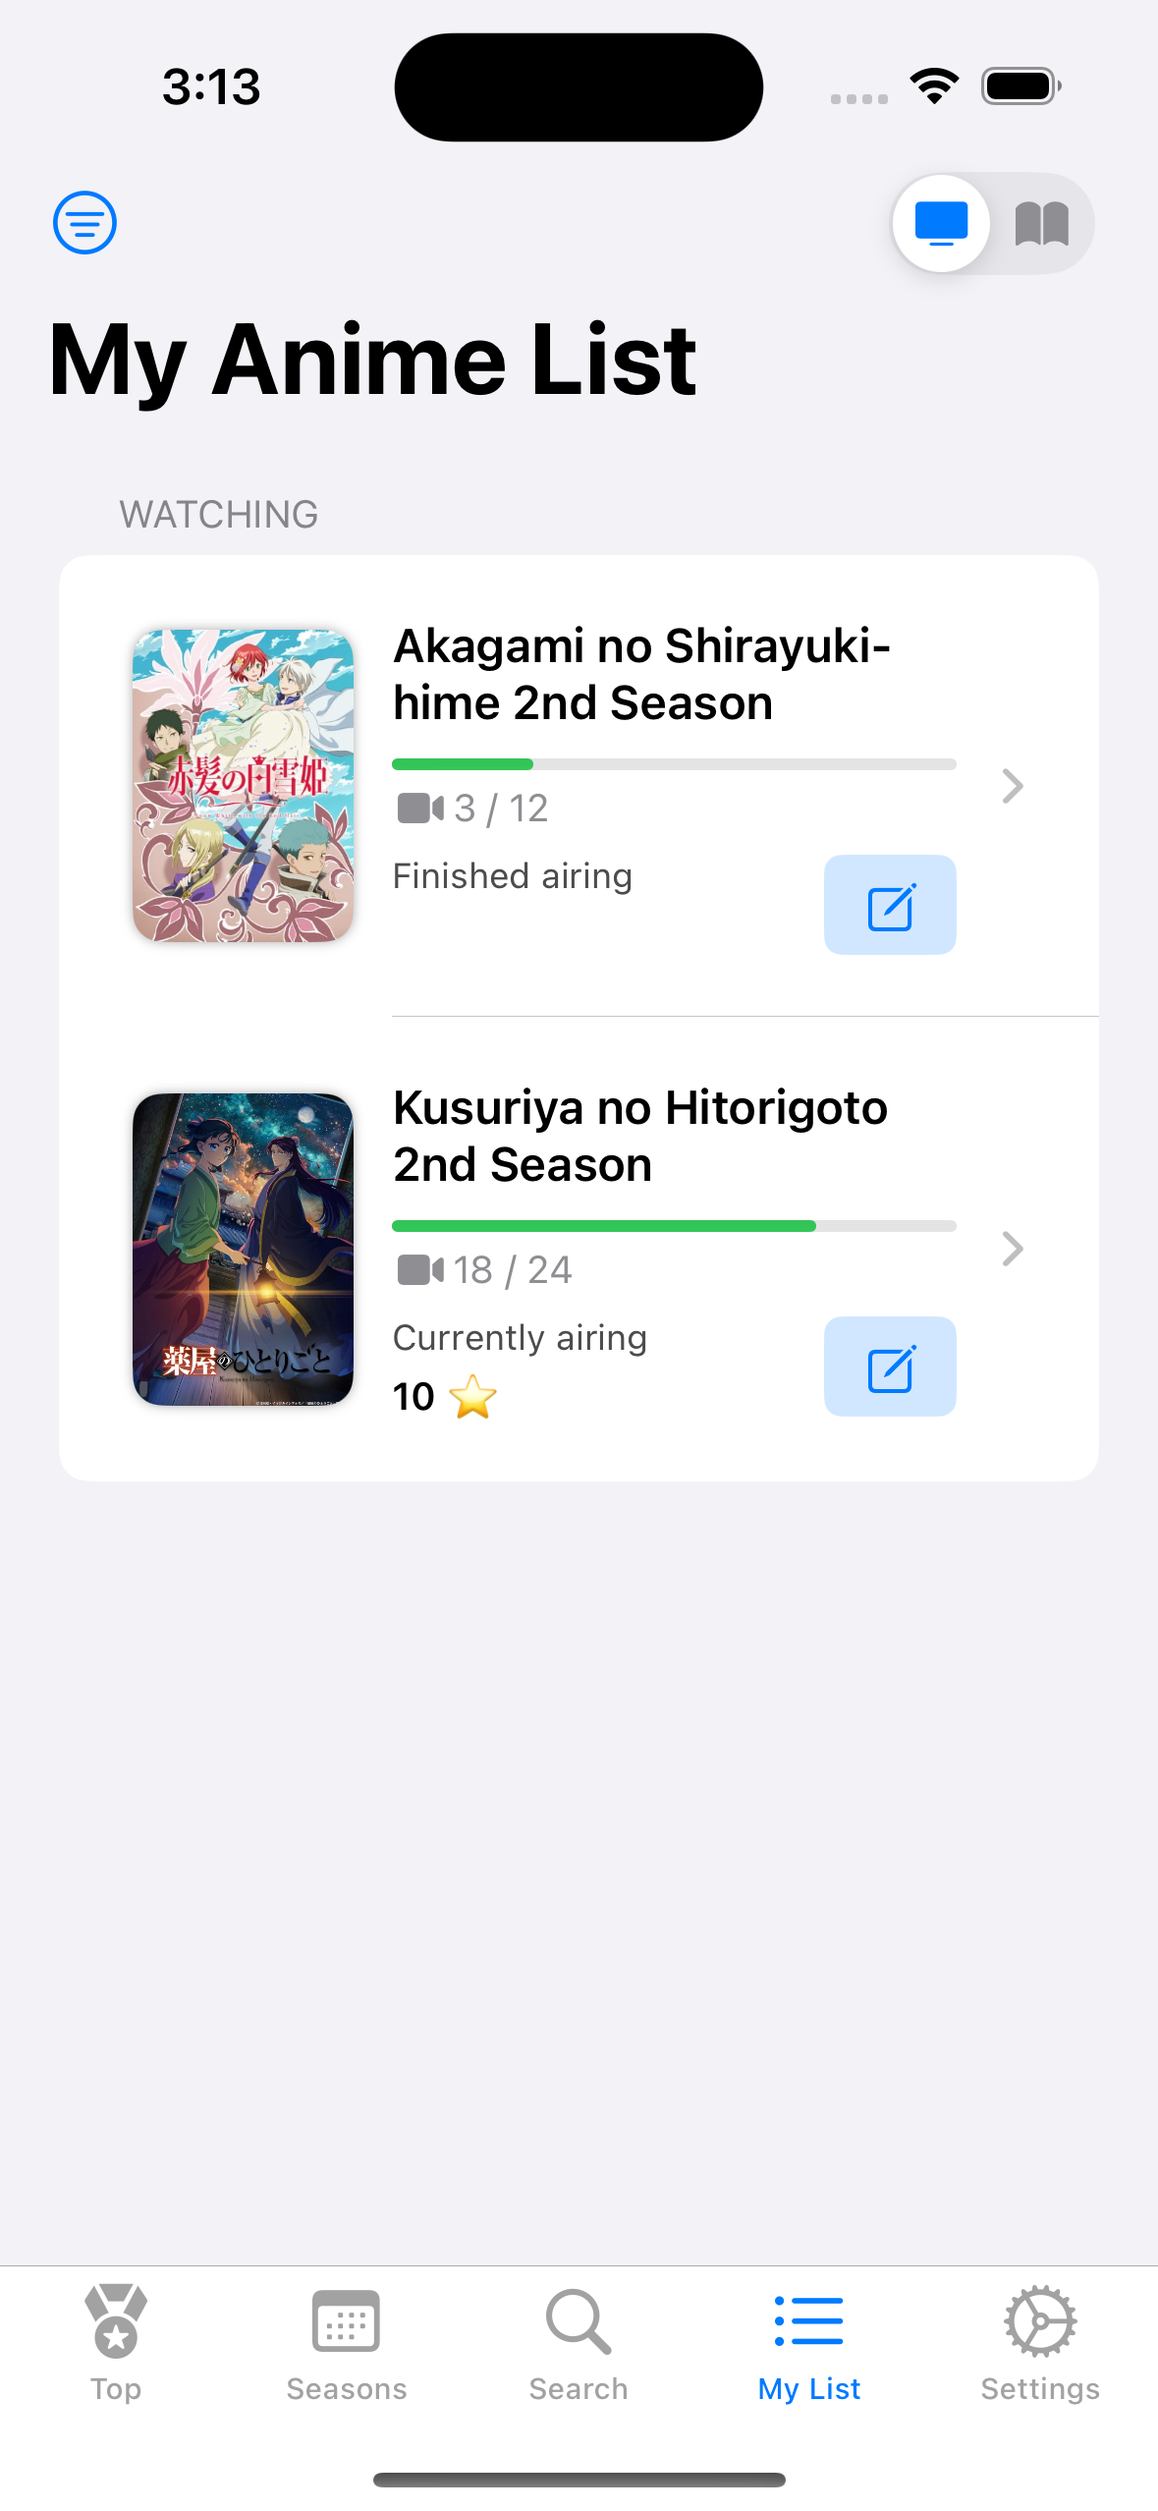
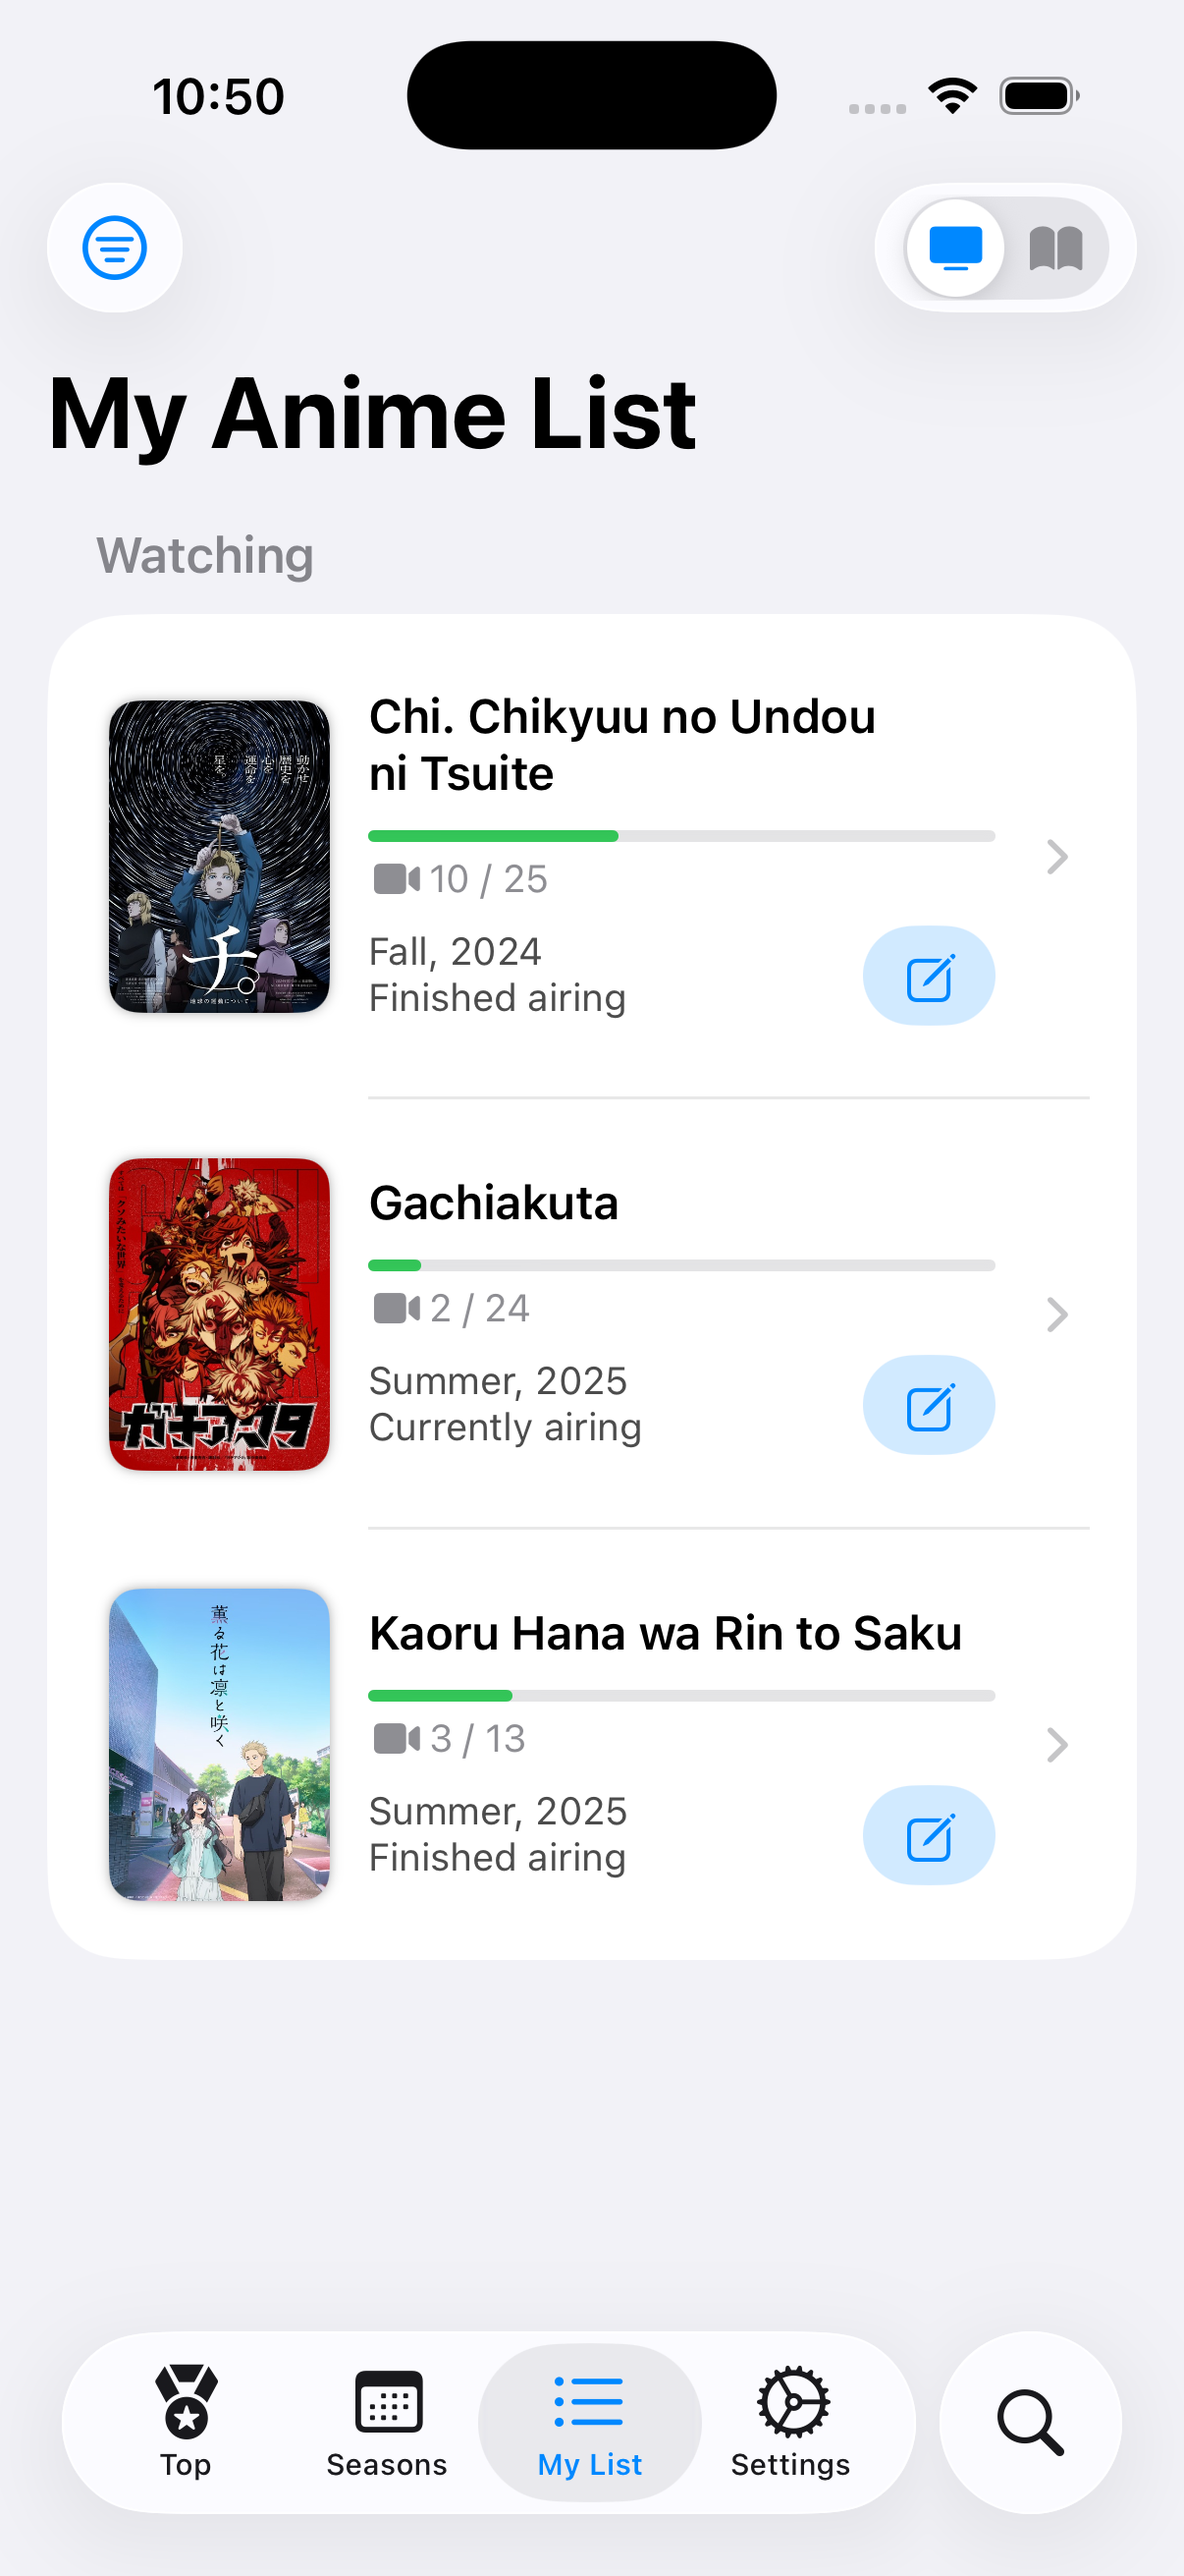
Update README.md

diff --git a/README.md b/README.md
@@ -16,11 +16,13 @@ This is a project that I used to learn Swift and iOS app development. Used the M
 * View, edit, add and remove animes/mangas on user's list by logging in to MyAnimeList account
 * Customise how the app looks
 * Look at the information, next episode airing schedule, trailers, characters, staffs, authors, related items, recommendations, opening and ending themes and reviews of anime and manga
+* Adapted to iOS 26 Liquid Glass interfaces
 
 ## Things to be done
 
+* Change alerts to banners toasts style
 * Add more context menus for grid/list items
-* Add ipad support for NavigationSplitView
-* Try integration with Spotify API (for opening and ending themes)
+* Add iPad support for NavigationSplitView
+* Try integration with Spotify/Apple Music API (for opening and ending themes)
 * Try playing with live activities/widgets
-* Try anime schedule for the week feature
+* Try adding notifications for upcoming episode
